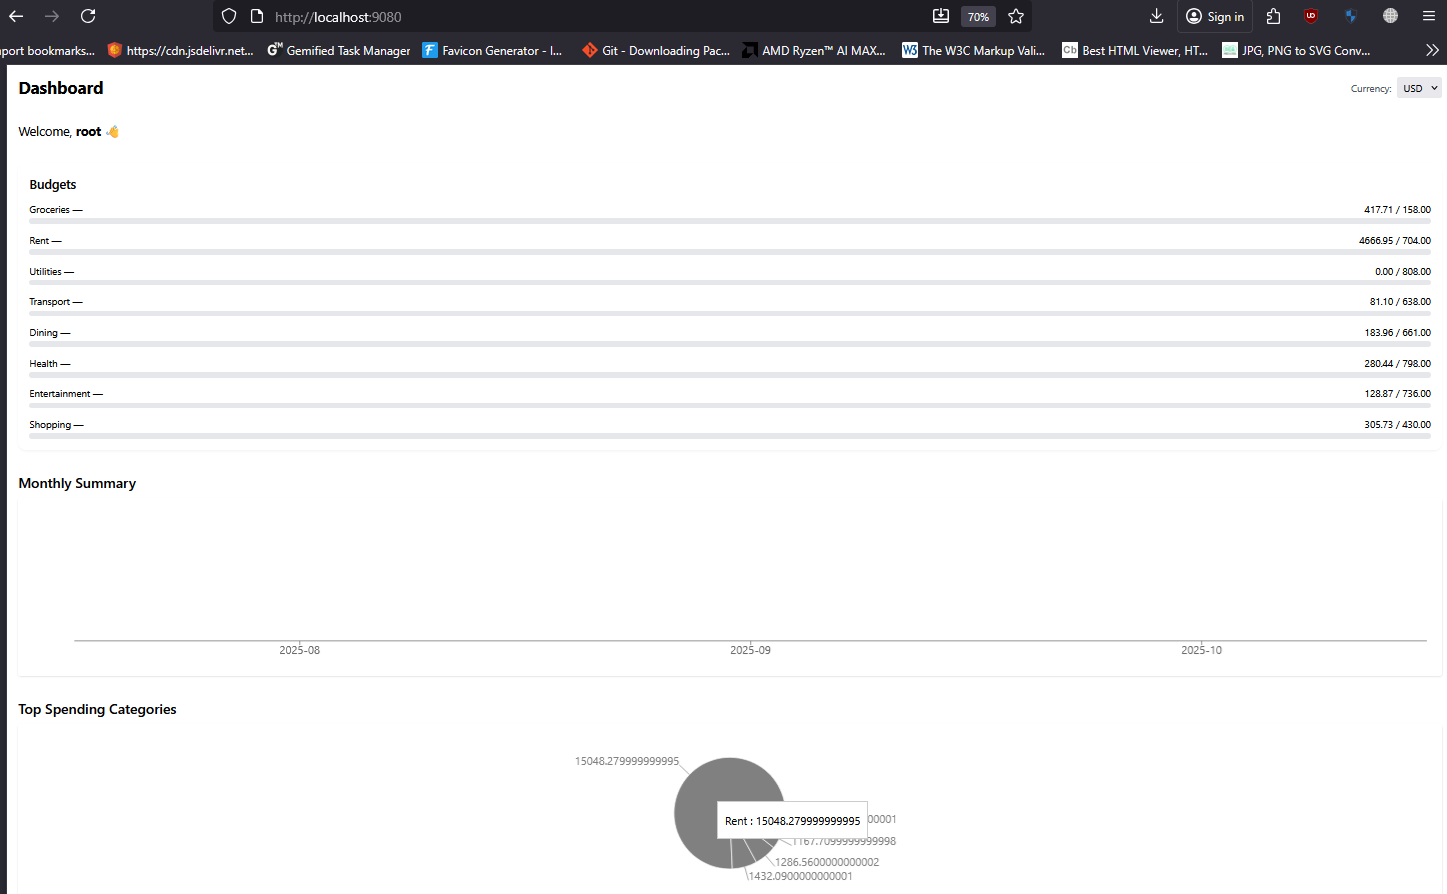
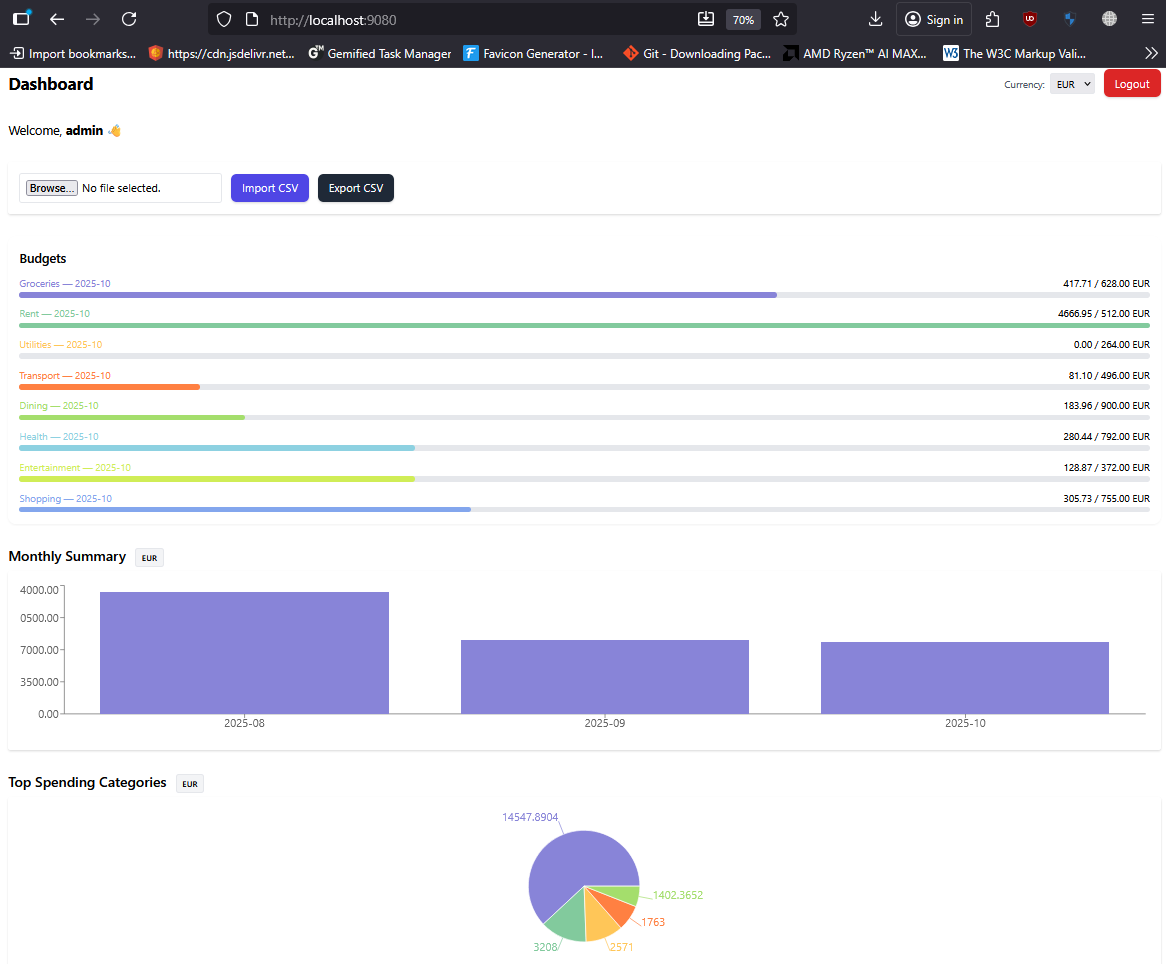
feat(core,frontend,backend, dashboard): recoloring the dashboard, flip currency trigger update

diff --git a/frontend/src/components/BudgetProgress.jsx b/frontend/src/components/BudgetProgress.jsx
@@ -1,22 +1,37 @@
 import React from "react";
 
+const CAT_COLORS = [
+  "#8884d8", "#82ca9d", "#ffc658", "#ff8042", "#a4de6c",
+  "#8dd1e1", "#d0ed57", "#83a6ed", "#ffbb28", "#ff7f50"
+];
+
 export default function BudgetProgress({ items }) {
   if (!items || !items.length) return null;
+  const colorFor = (i) => CAT_COLORS[i % CAT_COLORS.length];
   return (
     <div className="bg-white rounded-xl p-4 shadow-sm">
       <h3 className="text-lg font-semibold mb-3">Budgets</h3>
       <div className="space-y-3">
-        {items.map((b) => (
-          <div key={b.category + b.month}>
-            <div className="flex justify-between text-sm mb-1">
-              <span>{b.category} — {b.month}</span>
-              <span>{b.spent.toFixed(2)} / {b.limit.toFixed(2)} {b.currency}</span>
+        {items.map((b, i) => {
+          const limit = Number(b.limit || 0);
+          const spent = Number(b.spent || 0);
+          const progress = Number.isFinite(b.progress) ? b.progress : (limit > 0 ? spent/limit : 0);
+          const month = b.month || new Date().toISOString().slice(0,7);
+          const cur = b.currency || "";
+          return (
+            <div key={(b.category||'cat') + month}>
+              <div className="flex justify-between text-sm mb-1">
+                <span className="font-medium" style={{color: colorFor(i)}}>
+                  {b.category} — {month}
+                </span>
+                <span className="tabular-nums">{spent.toFixed(2)} / {limit.toFixed(2)} {cur}</span>
+              </div>
+              <div className="w-full h-2 bg-gray-200 rounded">
+                <div className="h-2 rounded" style={{ width: `${Math.min(100, Math.round(progress*100))}%`, backgroundColor: colorFor(i) }} />
+              </div>
             </div>
-            <div className="w-full h-2 bg-gray-200 rounded">
-              <div className="h-2 rounded" style={{ width: `${Math.min(100, Math.round((b.progress||0)*100))}%` }} />
-            </div>
-          </div>
-        ))}
+          );
+        })}
       </div>
     </div>
   );

diff --git a/frontend/src/pages/Dashboard.jsx b/frontend/src/pages/Dashboard.jsx
@@ -227,21 +227,21 @@ export default function Dashboard() {
       <BudgetProgress items={budgetsData} />
 
       <section>
-        <h2 className="text-xl font-semibold mb-2">Monthly Summary</h2>
+        <h2 className="text-xl font-semibold mb-2">Monthly Summary <span className="ml-2 text-xs px-2 py-1 rounded bg-gray-100 border">{currency}</span></h2>
         <div className="h-64 bg-white shadow p-4 rounded">
           <ResponsiveContainer width="100%" height="100%">
             <BarChart data={monthlyData}>
               <XAxis dataKey="month" />
-              <YAxis />
-              <Tooltip />
-              <Bar dataKey="total" />
+              <YAxis tickFormatter={(v) => Number(v).toFixed(2)} />
+              <Tooltip formatter={(value) => Number(value).toFixed(2)} />
+              <Bar dataKey="total" fill="#8884d8" />
             </BarChart>
           </ResponsiveContainer>
         </div>
       </section>
 
       <section>
-        <h2 className="text-xl font-semibold mb-2">Top Spending Categories</h2>
+        <h2 className="text-xl font-semibold mb-2">Top Spending Categories <span className="ml-2 text-xs px-2 py-1 rounded bg-gray-100 border">{currency}</span></h2>
         <div className="h-64 bg-white shadow p-4 rounded">
           <ResponsiveContainer width="100%" height="100%">
             <PieChart>

diff --git a/backend/analytics/views.py b/backend/analytics/views.py
@@ -9,25 +9,31 @@ from rest_framework.response import Response
 from transactions.models import Transaction
 from core.models import ExchangeRate, Budget, TransactionCategory
 
-def _rate_on_or_before(base: str, target: str, on_date):
-    return (ExchangeRate.objects
-            .filter(base=base, target=target, date__lte=on_date)
-            .order_by('-date')
-            .first())
 
-def convert_amount(amount, src: str, tgt: str, on_date):
-    if src == tgt:
-        return float(amount)
-    base = getattr(settings, 'BASE_CURRENCY', 'USD')
-    if src == base:
-        in_base = float(amount)
-    else:
-        r = _rate_on_or_before(base, src, on_date)
-        in_base = float(amount) if not r or float(r.rate) == 0.0 else float(amount) / float(r.rate)
-    if tgt == base:
-        return in_base
-    r2 = _rate_on_or_before(base, tgt, on_date)
-    return in_base if not r2 else in_base * float(r2.rate)
+def _get_rate(base: str, target: str, on_date):
+    if base == target:
+        return 1.0
+    obj = (ExchangeRate.objects
+           .filter(base=base, target=target, date__lte=on_date)
+           .order_by('-date')
+           .first())
+    return obj.rate if obj else None
+
+
+def convert_amount(amount, base: str, target: str, on_date):
+    try:
+        amt = float(amount or 0.0)
+    except Exception:
+        amt = 0.0
+    base = base or getattr(settings, 'BASE_CURRENCY', 'USD')
+    target = target or getattr(settings, 'BASE_CURRENCY', 'USD')
+    if base == target:
+        return amt
+    rate = _get_rate(base, target, on_date)
+    if rate is None:
+        return amt  # fallback: no conversion available
+    return amt * float(rate)
+
 
 @api_view(['GET'])
 @permission_classes([IsAuthenticated])
@@ -36,69 +42,75 @@ def summary_by_month(request):
     qs = (Transaction.objects
           .filter(user=request.user)
           .annotate(month=TruncMonth('date'))
-          .values('month','currency__code','category__is_income')
+          .values('month', 'currency__code')
           .annotate(total=Sum('amount'))
           .order_by('month'))
-    buckets = defaultdict(lambda: {'income': 0.0, 'expense': 0.0})
+
+    totals = defaultdict(float)
     for row in qs:
+        month = row['month'] or date.today().replace(day=1)
         code = row['currency__code'] or getattr(settings, 'BASE_CURRENCY', 'USD')
-        val = convert_amount(row['total'], code, target_currency, row['month'] or date.today())
-        key = 'income' if row['category__is_income'] else 'expense'
-        buckets[row['month'].strftime('%Y-%m') if row['month'] else 'unknown'][key] += float(val)
-    out = [{'month': m, **vals, 'net': vals['income'] - vals['expense']} for m, vals in sorted(buckets.items())]
+        totals[month] += convert_amount(row['total'], code, target_currency, month)
+
+    out = [{'month': m.strftime('%Y-%m'), 'total': float(v)} for m, v in sorted(totals.items())]
     return Response(out)
+
 
 @api_view(['GET'])
 @permission_classes([IsAuthenticated])
 def top_categories(request):
     target_currency = request.query_params.get('currency', getattr(settings, 'BASE_CURRENCY', 'USD'))
-    limit = int(request.query_params.get('limit', '5'))
     qs = (Transaction.objects
-          .filter(user=request.user, category__is_income=False)
-          .values('category__name','currency__code','date')
+          .filter(user=request.user)
+          .values('category_id', 'category__name', 'currency__code')
           .annotate(total=Sum('amount'))
-          .order_by('-total'))
-    agg = defaultdict(float)
+          .order_by())
+    # Sum per category (expenses as positive magnitude)
+    buckets = defaultdict(float)
     for row in qs:
         code = row['currency__code'] or getattr(settings, 'BASE_CURRENCY', 'USD')
-        val = convert_amount(row['total'], code, target_currency, row['date'] or date.today())
-        agg[row['category__name'] or 'Uncategorized'] += float(val)
-    items = sorted(agg.items(), key=lambda kv: kv[1], reverse=True)[:limit]
-    return Response([{'category': k, 'total': v} for k, v in items])
+        val = convert_amount(row['total'], code, target_currency, date.today())
+        buckets[row['category__name'] or 'Uncategorized'] += float(abs(val))
+    top = sorted(buckets.items(), key=lambda x: x[1], reverse=True)[:5]
+    out = [{'category': k, 'total': float(v)} for k, v in top]
+    return Response(out)
+
 
 @api_view(['GET'])
 @permission_classes([IsAuthenticated])
 def budgets_summary(request):
-    month = request.query_params.get('month')
+    # Current month budgets and their spent (converted to target currency)
     target_currency = request.query_params.get('currency', getattr(settings, 'BASE_CURRENCY', 'USD'))
-    if not month:
-        today = date.today()
-        month = f"{today.year}-{today.month:02d}"
-    m_year, m_month = map(int, month.split('-'))
-    from datetime import date as _d
-    first_day = _d(m_year, m_month, 1)
-
-    tx = (Transaction.objects
-          .filter(user=request.user, date__year=m_year, date__month=m_month, category__is_income=False)
-          .values('category__id','category__name','currency__code','date')
-          .annotate(total=Sum('amount')))
-
-    spent = defaultdict(float)
-    for row in tx:
-        code = row['currency__code'] or getattr(settings, 'BASE_CURRENCY', 'USD')
-        spent[row['category__id']] += convert_amount(row['total'], code, target_currency, row['date'] or first_day)
+    first_day = date.today().replace(day=1)
 
     budgets = (Budget.objects
                .filter(user=request.user, month=first_day)
                .select_related('category'))
+    # Spend per category for current month
+    spend = (Transaction.objects
+             .filter(user=request.user, date__gte=first_day)
+             .values('category_id', 'currency__code')
+             .annotate(total=Sum('amount')))
 
+    from collections import defaultdict
+    spent_map = defaultdict(float)
+    for row in spend:
+        code = row['currency__code'] or getattr(settings, 'BASE_CURRENCY', 'USD')
+        spent_map[row['category_id']] += convert_amount(row['total'], code, target_currency, first_day)
+
+    month_label = first_day.strftime('%Y-%m')
     out = []
     for b in budgets:
-        s = float(spent.get(b.category_id, 0.0))
+        s = float(spent_map.get(b.category_id, 0.0))
+        limit = float(b.limit_amount)
+        progress = (s / limit) if limit > 0 else 0.0
         out.append({
             'category': b.category.name,
-            'limit': float(b.limit_amount),
+            'limit': limit,
             'spent': s,
-            'remaining': float(b.limit_amount) - s,
+            'remaining': limit - s,
+            'progress': max(0.0, min(1.0, progress)),
+            'month': month_label,
+            'currency': target_currency,
         })
     return Response(out)

diff --git a/backend/transactions/views.py b/backend/transactions/views.py
@@ -1,58 +1,53 @@
 from rest_framework import viewsets, permissions, status
 from rest_framework.decorators import action
 from rest_framework.response import Response
-from .models import Transaction
-from .serializers import TransactionSerializer
 from django.db import transaction as db_transaction
 from django.utils.dateparse import parse_date
+from .models import Transaction
+from .serializers import TransactionSerializer
 from core.models import Currency, TransactionCategory
-import csv, io
+import csv
+import io
+
 
 class TransactionViewSet(viewsets.ModelViewSet):
     serializer_class = TransactionSerializer
     permission_classes = [permissions.IsAuthenticated]
 
     def get_queryset(self):
-        return Transaction.objects.filter(user=self.request.user)
+        return Transaction.objects.filter(user=self.request.user).order_by("-date", "-id")
 
-    def perform_create(self, serializer):
-        serializer.save(user=self.request.user)
-
-    @action(detail=False, methods=['get'], url_path='export')
+    @action(detail=False, methods=["get"], url_path="export")
     def export_csv(self, request):
-        # Export current user's transactions as CSV content string
         output = io.StringIO()
         writer = csv.writer(output)
         writer.writerow(["date", "amount", "currency", "category", "description"])
-        qs = self.get_queryset().select_related("currency", "category").order_by("date")
+        qs = self.get_queryset().select_related("currency", "category").order_by("date", "id")
         for t in qs:
             writer.writerow([
                 t.date.isoformat(),
                 str(t.amount),
                 t.currency.code if t.currency else "",
                 t.category.name if t.category else "",
-                t.description or ""
+                t.description or "",
             ])
         output.seek(0)
         return Response({"filename": "transactions.csv", "content": output.getvalue()})
 
-    @action(detail=False, methods=['post'], url_path='import')
+    @action(detail=False, methods=["post"], url_path="import")
     def import_csv(self, request):
-        """Accepts CSV file (columns: date, amount, currency, category, description)
-        Returns JSON report with created count and per-line errors.
-        """
-        file = request.FILES.get('file')
+        file = request.FILES.get("file")
         if not file:
             return Response({"error": "No file provided under 'file'."}, status=status.HTTP_400_BAD_REQUEST)
 
-        decoded = file.read().decode('utf-8', errors='ignore')
+        decoded = file.read().decode("utf-8", errors="ignore")
         reader = csv.DictReader(io.StringIO(decoded))
+
         required = {"date", "amount"}
         report = {"created": 0, "errors": 0, "line_errors": []}
 
         with db_transaction.atomic():
             for i, row in enumerate(reader, start=2):  # header is line 1
-                # Validate required columns
                 missing = [k for k in required if not (row.get(k) or "").strip()]
                 if missing:
                     report["errors"] += 1
@@ -72,13 +67,13 @@ class TransactionViewSet(viewsets.ModelViewSet):
                     report["line_errors"].append({"line": i, "error": "Invalid amount"})
                     continue
 
-                currency = None
                 code = (row.get("currency") or "").strip().upper()
+                currency = None
                 if code:
                     currency, _ = Currency.objects.get_or_create(code=code, defaults={"name": code})
 
-                category = None
                 cname = (row.get("category") or "").strip()
+                category = None
                 if cname:
                     category, _ = TransactionCategory.objects.get_or_create(name=cname)
 
@@ -88,7 +83,7 @@ class TransactionViewSet(viewsets.ModelViewSet):
                     currency=currency,
                     category=category,
                     description=(row.get("description") or "").strip(),
-                    date=d
+                    date=d,
                 )
                 report["created"] += 1
 

diff --git a/backend/core/management/commands/seed_fx.py b/backend/core/management/commands/seed_fx.py
@@ -1,0 +1,26 @@
+from django.core.management.base import BaseCommand, CommandParser
+from datetime import date, timedelta
+from core.models import Currency, ExchangeRate
+
+class Command(BaseCommand):
+    help = "Seed demo USD/EUR/RSD exchange rates."
+
+    def add_arguments(self, parser: CommandParser):
+        parser.add_argument("--days", type=int, default=7)
+        parser.add_argument("--usd-eur", type=float, default=0.92)
+        parser.add_argument("--usd-rsd", type=float, default=108.5)
+
+    def handle(self, *args, **opts):
+        days = opts["days"]
+        usd_eur = opts["usd_eur"]
+        usd_rsd = opts["usd_rsd"]
+        for code in ("USD","EUR","RSD"):
+            Currency.objects.get_or_create(code=code, defaults={"name": code})
+        today = date.today()
+        for i in range(days):
+            d = today - timedelta(days=i)
+            ExchangeRate.objects.update_or_create(base="USD", target="EUR", date=d, defaults={"rate": usd_eur})
+            ExchangeRate.objects.update_or_create(base="EUR", target="USD", date=d, defaults={"rate": 1.0/usd_eur})
+            ExchangeRate.objects.update_or_create(base="USD", target="RSD", date=d, defaults={"rate": usd_rsd})
+            ExchangeRate.objects.update_or_create(base="RSD", target="USD", date=d, defaults={"rate": 1.0/usd_rsd})
+        self.stdout.write(self.style.SUCCESS(f"Seeded FX for {days} day(s)."))
